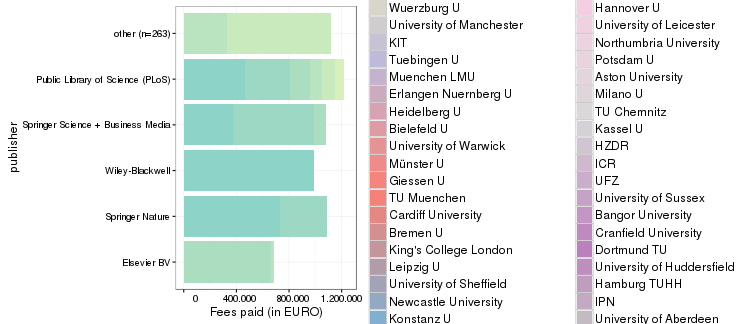
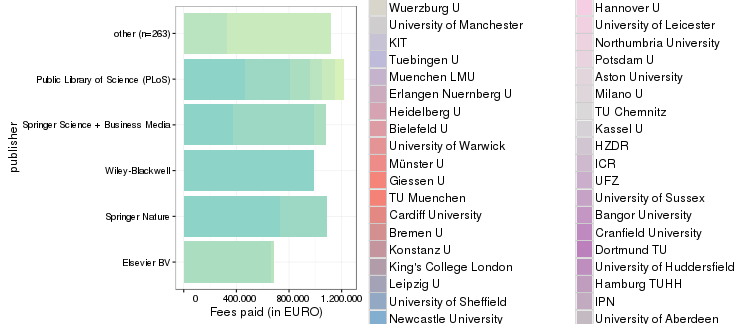
post: konstanz apc data 2016

Changed region(s): [[0.5172, 0.7407, 0.6693, 0.8951], [0.5172, 0.9259, 0.6693, 1.0]]

diff --git a/_posts/2017-03-30-konstanz.md b/_posts/2017-03-30-konstanz.md
@@ -1,0 +1,59 @@
+---
+layout:     post
+author:     Christoph Broschinski
+author_lnk: https://github.com/cbroschinski
+title:      University of Konstanz reports its 2016 APC expenditures
+date:       2017-03-30 08:00:00
+summary:    
+categories: [general, openAPC]
+comments: true
+---
+
+
+
+The [University of Konstanz](http://www.uni-konstanz.de) has updated its APC expenditures. The latest contribution provides data for the 2016 period.
+
+[Konstanz University Library](http://www.ub.uni-konstanz.de/en/welcome/) is in charge of the University's [Open Access Publishing Fund](http://www.ub.uni-konstanz.de/en/openaccess/open-access-publikationsfond-der-universitaet-konstanz/), which is supported by the DFG under its [Open-Access Publishing Programme](http://www.dfg.de/en/research_funding/programmes/infrastructure/lis/funding_opportunities/open_access/).
+
+Contact person is [Anja Oberländer](https://scikon.uni-konstanz.de/personen/anja.oberlaender/).
+
+## Cost data
+
+
+
+The new dataset covers publication fees for 67 articles. Total expenditure amounts to 123 516€ and the average fee is 1 844€.
+
+The following table shows the payments Konstanz University Library has made to publishers in 2016.
+
+
+|                                 | Articles| Fees paid in EURO| Mean Fee paid|
+|:--------------------------------|--------:|-----------------:|-------------:|
+|Springer Nature                  |       18|             36750|          2042|
+|Frontiers Media SA               |       15|             25403|          1694|
+|ALTEX Edition                    |        8|             16000|          2000|
+|Wiley-Blackwell                  |        7|             10902|          1557|
+|Public Library of Science (PLoS) |        5|              9607|          1921|
+|Oxford University Press (OUP)    |        4|              9346|          2336|
+|IOP Publishing                   |        3|              3883|          1294|
+|PeerJ                            |        2|              1502|           751|
+|Berlin Regener Publishing House  |        1|               289|           289|
+|Elsevier BV                      |        1|              3480|          3480|
+|Informa UK Limited               |        1|              1529|          1529|
+|JMIR Publications Inc.           |        1|              2627|          2627|
+|Optical Society of America (OSA) |        1|              2197|          2197|
+
+## Overview
+
+With the recent contribution included, the overall APC data for Konstanz now looks as follows:
+
+### Fees paid per publisher (in EURO)
+
+![plot of chunk tree_konstanz_2017_03_30_full](/figure/tree_konstanz_2017_03_30_full-1.png)
+
+###  Average costs per year (in EURO)
+
+![plot of chunk box_konstanz_2017_03_30_year_full](/figure/box_konstanz_2017_03_30_year_full-1.png)
+
+###  Average costs per publisher (in EURO)
+
+![plot of chunk box_konstanz_2017_03_30_publisher_full](/figure/box_konstanz_2017_03_30_publisher_full-1.png)

diff --git a/about.md b/about.md
@@ -144,13 +144,13 @@ Jisc Collections released data on APC payments made by UK higher education insti
 
 Information on both open access journal articles and open access publication of articles in toll-access journals ("hybrid") are provided.
 
-In total,  56 324 104 € for  30 305 articles were paid by the participating unviversities. Average  fee is 1 858.6 € and the median 1 661 €.
+In total,  56 445 799 € for  30 371 articles were paid by the participating unviversities. Average  fee is 1 858.5 € and the median 1 661 €.
 
 ### Open Access Journals
 
 
 
-At the moment, the dataset releases information on 17 369 articles in open access journals which charge publication fees. Total expenditure amounts to  24 409 112 €. Average  fee is 1 405.3 € and the median 1 325 €.
+At the moment, the dataset releases information on 17 435 articles in open access journals which charge publication fees. Total expenditure amounts to  24 530 808 €. Average  fee is 1 407 € and the median 1 328 €.
 
 View dataset on [GitHub](https://github.com/OpenAPC/openapc-de/blob/master/data/apc_de.csv).
 
@@ -190,7 +190,7 @@ View dataset on [GitHub](https://github.com/OpenAPC/openapc-de/blob/master/data/
 |Kassel U                                    |       55|            59,511|         1,082|  1,129|
 |King's College London                       |       61|           126,369|         2,072|  1,642|
 |KIT                                         |      425|           521,166|         1,226|  1,242|
-|Konstanz U                                  |      220|           300,709|         1,367|  1,361|
+|Konstanz U                                  |      286|           422,405|         1,477|  1,452|
 |Leibniz-Fonds                               |      129|           208,581|         1,617|  1,572|
 |Leipzig U                                   |      270|           386,841|         1,433|  1,504|
 |Loughborough University                     |        1|               980|           980|    980|
